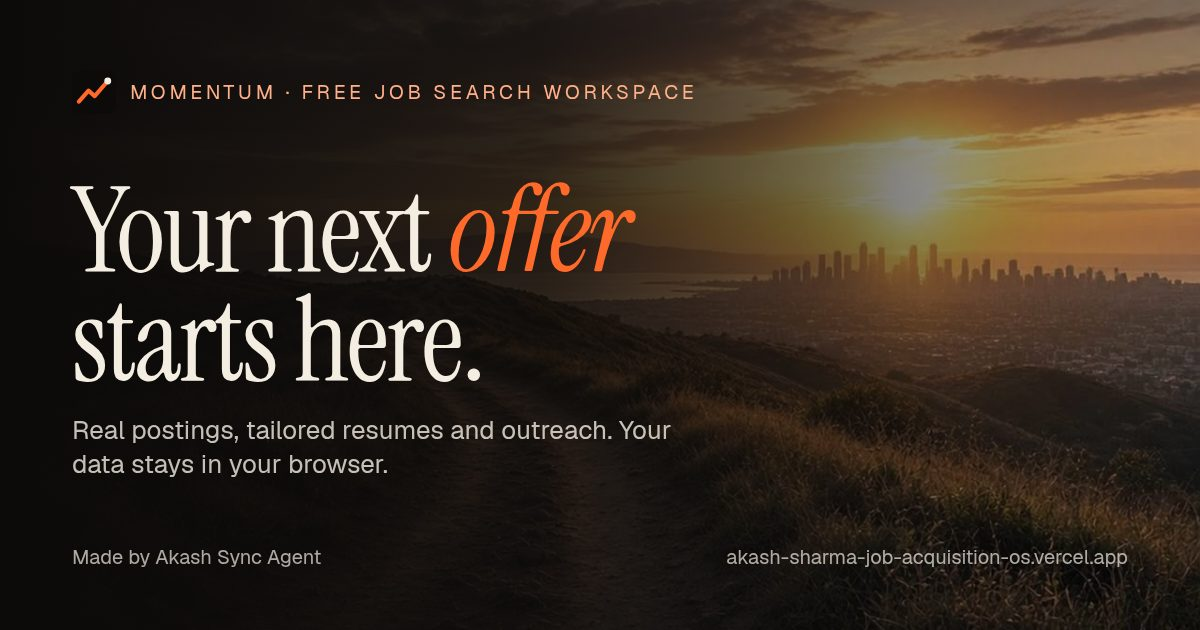
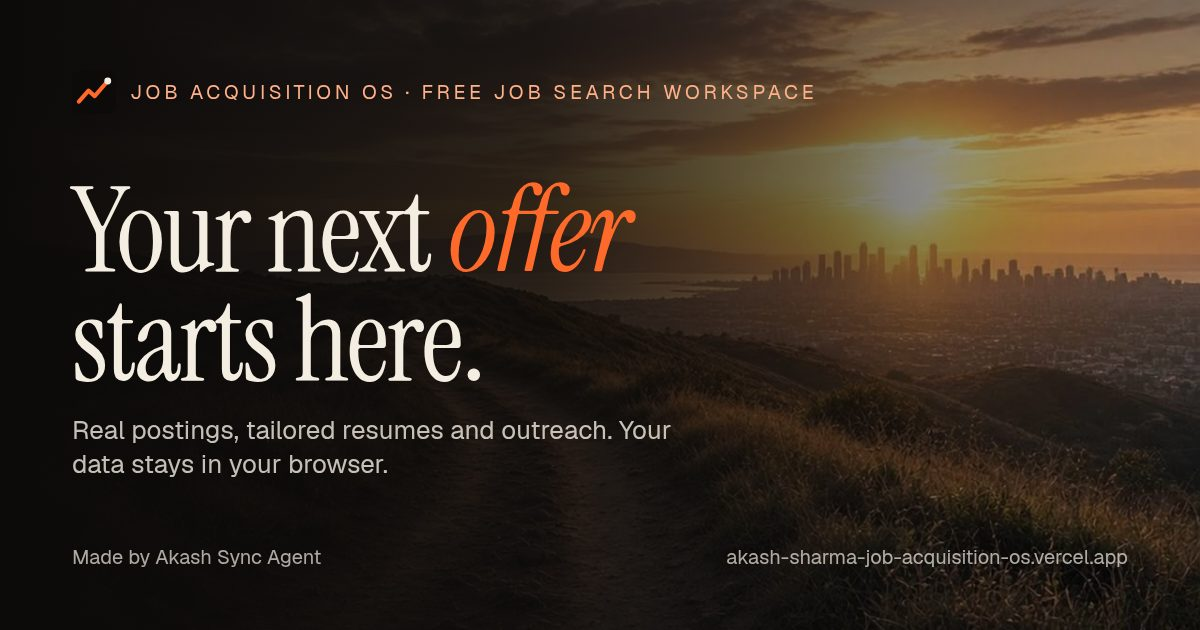
Truth pass: product name Job Acquisition OS (Momentum = design concept), landing copy matches tested features (real jobs step, no 'Apply/Negotiate', no 'ATS'), new OG card

Changed region(s): [[0.0925, 0.1206, 0.6783, 0.181]]

diff --git a/src/pages/Landing.tsx b/src/pages/Landing.tsx
@@ -15,7 +15,7 @@ function ShareButton({ className }: { className: string }) {
   const url = `${SITE_URL}/?ref=share`;
   const share = async () => {
     track('share');
-    const data = { title: 'Momentum: a free job search workspace', text: 'Free job search workspace: real postings, tailored resumes, your data stays in your browser.', url };
+    const data = { title: 'Job Acquisition OS: a free job search workspace', text: 'Free job search workspace: real postings, tailored resumes, your data stays in your browser.', url };
     try { if (navigator.share) { await navigator.share(data); return; } } catch { return; }
     try { await navigator.clipboard.writeText(url); setCopied(true); setTimeout(() => setCopied(false), 2500); } catch { prompt('Copy this link', url); }
   };
@@ -23,11 +23,12 @@ function ShareButton({ className }: { className: string }) {
 }
 
 const STEPS = [
-  ['01', 'Bring your resume', 'Upload it once. It is saved in your browser and powers every tool.'],
-  ['02', 'Score the role', 'A candid fit score, strengths, gaps and the keywords you are missing.'],
-  ['03', 'Tailor and reach out', 'Resume, cover letter and outreach written from your resume only. AI can slip, so read before you send.'],
-  ['04', 'Face the screen', 'A simulated recruiter read, plus interview prep for every round.'],
-  ['05', 'Land the offer', 'Track pay, compare offers, and see the whole path on one horizon.'],
+  ['01', 'Bring your resume', 'Upload a PDF, DOCX or TXT, or fill a short Hindi/English form if you have none. Saved in your browser.'],
+  ['02', 'Find real jobs', 'Real postings from FreeHire with the original link, plus government notices with an official link and a future last date. Verify before you apply.'],
+  ['03', 'Score the role', 'A fit score with strengths, gaps and missing keywords (AI with your free Gemini key, otherwise a labelled keyword match).'],
+  ['04', 'Tailor and reach out', 'Resume, cover letter and outreach drafts from your resume only, with a fact check. You read and send them yourself.'],
+  ['05', 'Face the screen', 'A simulated recruiter read, plus interview prep for every round.'],
+  ['06', 'Land the offer', 'Follow-up reminders for your calendar, pay you log on each job, and your weekly pace.'],
 ];
 
 export default function Landing({ dark, toggleTheme, enter }: { dark: boolean; toggleTheme: () => void; enter: () => void }) {
@@ -73,7 +74,7 @@ export default function Landing({ dark, toggleTheme, enter }: { dark: boolean; t
   const nav = (
     <header className="fixed inset-x-0 top-4 z-50 flex justify-center px-4">
       <nav className={`glass flex w-full max-w-2xl items-center justify-between rounded-full px-3 py-2 pl-5 transition-shadow ${scrolled ? 'shadow-[0_10px_40px_-10px_rgba(0,0,0,0.5)]' : ''}`} aria-label="Primary">
-        <span className="display text-xl">Momentum</span>
+        <span className="display text-xl">Job Acquisition OS</span>
         <div className="hidden items-center gap-6 text-sm sm:flex">
           <a href="#path" className="hover:text-primary">The path</a>
           <a href="#tools" className="hover:text-primary">Toolkit</a>
@@ -99,7 +100,7 @@ export default function Landing({ dark, toggleTheme, enter }: { dark: boolean; t
         </div>
         <div className="absolute inset-0 bg-gradient-to-t from-[#0d0b0a] via-[#0d0b0a]/30 to-[#0d0b0a]/50" />
         <div className="hero-copy relative z-10 flex h-full flex-col justify-end px-5 pb-14 sm:px-10 sm:pb-20">
-          <p className="hero-fade label mb-5 text-[#ffb089]">Your job search, with momentum</p>
+          <p className="hero-fade label mb-5 text-[#ffb089]">Job Acquisition OS · free, by Akash Sync Agent</p>
           <h1 className="display max-w-[16ch] text-[clamp(3.6rem,11.5vw,11rem)] leading-[0.9]">
             <span className="block overflow-hidden"><span className="hero-line block">Your next</span></span>
             <span className="block overflow-hidden"><span className="hero-line block italic text-[#ff6a2b]">offer</span></span>
@@ -117,7 +118,7 @@ export default function Landing({ dark, toggleTheme, enter }: { dark: boolean; t
       {/* MARQUEE */}
       <section aria-hidden="true" className="overflow-hidden border-y border-border py-5">
         <div className="marquee-track flex w-max gap-10 whitespace-nowrap">
-          {Array.from({ length: 2 }).flatMap((_, k) => ['Score', 'Tailor', 'Apply', 'Follow up', 'Interview', 'Negotiate', 'Offer'].map((w) => (
+          {Array.from({ length: 2 }).flatMap((_, k) => ['Find', 'Score', 'Tailor', 'Follow up', 'Interview', 'Prepare', 'Offer'].map((w) => (
             <span key={w + k} className="display flex items-center gap-10 text-5xl sm:text-7xl">{w}<span className="text-primary">✦</span></span>
           )))}
         </div>
@@ -166,11 +167,11 @@ export default function Landing({ dark, toggleTheme, enter }: { dark: boolean; t
             </div>
           </div>
           <Tile cls="md:col-span-3" icon={<Gauge />} title="Candid fit score" body="0 to 100 against your own resume, with strengths, gaps and missing keywords. (Example score shown; real scores need your Gemini key.)" big="87" />
-          <Tile cls="md:col-span-2" icon={<ScanSearch />} title="Recruiter's 6-second read" body="Would you be shortlisted? Plus ATS keyword match." />
-          <Tile cls="md:col-span-1" icon={<TrendingUp />} title="Pay charts" body="Ranges vs your target." />
+          <Tile cls="md:col-span-2" icon={<ScanSearch />} title="Recruiter's 6-second read" body="A simulated shortlist read, plus a keyword match against the job description." />
+          <Tile cls="md:col-span-1" icon={<TrendingUp />} title="Pay charts" body="Pay you log on jobs, against your minimum." />
           <Tile cls="md:col-span-2" icon={<Mail />} title="Outreach & templates" body="Open in Gmail or download .eml. You always press send." />
           <Tile cls="md:col-span-2" icon={<Route />} title="Interview prep" body="Likely questions, answer outlines and what to ask." />
-          <Tile cls="md:col-span-2" icon={<Download />} title="Weekly report" body="Your momentum, as a PDF." />
+          <Tile cls="md:col-span-2" icon={<Download />} title="Weekly report" body="Your week of applications, as a PDF." />
         </div>
       </section>
 
@@ -186,7 +187,7 @@ export default function Landing({ dark, toggleTheme, enter }: { dark: boolean; t
       </section>
       <footer className="grid gap-4 px-5 py-8 text-sm text-muted-foreground sm:px-10">
         <div className="flex flex-wrap items-center justify-between gap-3">
-          <span className="display text-xl text-foreground">Momentum</span>
+          <span className="display text-xl text-foreground">Job Acquisition OS</span>
           <nav aria-label="Footer" className="flex flex-wrap items-center gap-5">
             <a href="/feedback" className="label hover:text-primary">Share feedback</a>
             <ShareButton className="label cursor-pointer hover:text-primary" />

diff --git a/index.html b/index.html
@@ -3,7 +3,7 @@
   <head>
     <meta charset="UTF-8" />
     <meta name="viewport" content="width=device-width, initial-scale=1.0" />
-    <title>Momentum: free job search workspace, by Akash Sync Agent</title>
+    <title>Job Acquisition OS: free job search workspace, by Akash Sync Agent</title>
     <meta name="description" content="Find real job postings, score them against your resume, tailor your resume, cover letters and outreach with AI. Free. Your data stays in your browser." />
     <meta name="author" content="Akash Sync Agent (Adv. Akash Sharma)" />
     <meta name="theme-color" content="#0d0b0a" />
@@ -11,25 +11,25 @@
     <link rel="icon" href="/favicon.svg" type="image/svg+xml" />
     <link rel="apple-touch-icon" href="/apple-touch-icon.png" />
     <meta property="og:type" content="website" />
-    <meta property="og:site_name" content="Momentum" />
-    <meta property="og:title" content="Momentum: your next offer starts here" />
+    <meta property="og:site_name" content="Job Acquisition OS" />
+    <meta property="og:title" content="Job Acquisition OS: your next offer starts here" />
     <meta property="og:description" content="Free job search workspace: real postings, tailored resumes and outreach. Your data stays in your browser." />
     <meta property="og:url" content="https://akash-sharma-job-acquisition-os.vercel.app/" />
     <meta property="og:image" content="https://akash-sharma-job-acquisition-os.vercel.app/og.jpg" />
     <meta property="og:image:width" content="1200" />
     <meta property="og:image:height" content="630" />
-    <meta property="og:image:alt" content="Momentum: Your next offer starts here. Made by Akash Sync Agent." />
+    <meta property="og:image:alt" content="Job Acquisition OS: Your next offer starts here. Made by Akash Sync Agent." />
     <meta name="twitter:card" content="summary_large_image" />
-    <meta name="twitter:title" content="Momentum: your next offer starts here" />
+    <meta name="twitter:title" content="Job Acquisition OS: your next offer starts here" />
     <meta name="twitter:description" content="Free job search workspace. Your data stays in your browser." />
     <meta name="twitter:image" content="https://akash-sharma-job-acquisition-os.vercel.app/og.jpg" />
     <!-- Search engine verification: paste the codes Akash gets from Google Search Console / Bing Webmaster Tools, then uncomment. See docs/SEO_SETUP.md -->
     <!-- <meta name="google-site-verification" content="PASTE_GOOGLE_CODE_HERE" /> -->
     <!-- <meta name="msvalidate.01" content="PASTE_BING_CODE_HERE" /> -->
-    <script type="application/ld+json">{"@context":"https://schema.org","@graph":[{"@type":"Organization","@id":"https://akash-sharma-job-acquisition-os.vercel.app/#org","name":"Akash Sync Agent","url":"https://akash-sharma-job-acquisition-os.vercel.app/","logo":"https://akash-sharma-job-acquisition-os.vercel.app/apple-touch-icon.png","founder":{"@type":"Person","name":"Adv. Akash Sharma"},"sameAs":["https://github.com/advakash2356-sys"]},{"@type":"WebApplication","name":"Momentum","url":"https://akash-sharma-job-acquisition-os.vercel.app/","applicationCategory":"BusinessApplication","operatingSystem":"Any (runs in a web browser)","browserRequirements":"Requires JavaScript","inLanguage":["en","hi"],"isAccessibleForFree":true,"offers":{"@type":"Offer","price":"0","priceCurrency":"INR"},"description":"Free job search workspace: real job postings from FreeHire, resume scoring and tailoring with your own free Google Gemini key, outreach drafts and interview prep. Your data stays in your browser.","image":"https://akash-sharma-job-acquisition-os.vercel.app/og.jpg","author":{"@id":"https://akash-sharma-job-acquisition-os.vercel.app/#org"},"publisher":{"@id":"https://akash-sharma-job-acquisition-os.vercel.app/#org"}}]}</script>
+    <script type="application/ld+json">{"@context":"https://schema.org","@graph":[{"@type":"Organization","@id":"https://akash-sharma-job-acquisition-os.vercel.app/#org","name":"Akash Sync Agent","url":"https://akash-sharma-job-acquisition-os.vercel.app/","logo":"https://akash-sharma-job-acquisition-os.vercel.app/apple-touch-icon.png","founder":{"@type":"Person","name":"Adv. Akash Sharma"},"sameAs":["https://github.com/advakash2356-sys"]},{"@type":"WebApplication","name":"Job Acquisition OS","url":"https://akash-sharma-job-acquisition-os.vercel.app/","applicationCategory":"BusinessApplication","operatingSystem":"Any (runs in a web browser)","browserRequirements":"Requires JavaScript","inLanguage":["en","hi"],"isAccessibleForFree":true,"offers":{"@type":"Offer","price":"0","priceCurrency":"INR"},"description":"Free job search workspace: real job postings from FreeHire, resume scoring and tailoring with your own free Google Gemini key, outreach drafts and interview prep. Your data stays in your browser.","image":"https://akash-sharma-job-acquisition-os.vercel.app/og.jpg","author":{"@id":"https://akash-sharma-job-acquisition-os.vercel.app/#org"},"publisher":{"@id":"https://akash-sharma-job-acquisition-os.vercel.app/#org"}}]}</script>
   </head>
   <body>
-    <noscript>Momentum needs JavaScript to run. It is a free job search workspace made by Akash Sync Agent.</noscript>
+    <noscript>Job Acquisition OS needs JavaScript to run. It is a free job search workspace made by Akash Sync Agent.</noscript>
     <div id="root"></div>
     <script type="module" src="/src/main.tsx"></script>
   </body>

diff --git a/src/lib/brand.ts b/src/lib/brand.ts
@@ -1,4 +1,4 @@
-export const SITE_NAME = 'Momentum';
+export const SITE_NAME = 'Job Acquisition OS';
 export const SITE_URL = 'https://akash-sharma-job-acquisition-os.vercel.app';
 export const CREDIT = 'Made by Akash Sync Agent';
 export const COPYRIGHT = '© 2026 Akash Sync Agent (Adv. Akash Sharma)';
@@ -21,10 +21,10 @@ export const CAMPAIGN = 'launch-oct26';
 export const channelLink = (c: string) => `${SITE_URL}/?ref=${c}&utm_campaign=${CAMPAIGN}`;
 /** Title and description per page (set at runtime; crawlers that run JS see them). */
 export const PAGE_META: Record<string, [string, string]> = {
-  landing: ['Momentum: free job search workspace, by Akash Sync Agent', 'Find real job postings, score them against your resume, and tailor your resume, cover letters and outreach with AI. Free. Your data stays in your browser.'],
-  about: ['About Momentum · Made by Akash Sync Agent', 'Who made Momentum, the licence in plain words, and the open-source parts it is built with.'],
-  terms: ['Terms of use · Momentum', 'Plain-language terms for Momentum: provided as is, Google Gemini API terms apply, 18+, verify every job and AI draft.'],
-  feedback: ['Share feedback · Momentum', 'Tell Akash Sync Agent what worked, what did not, and what you wish Momentum did. Post on GitHub or send a private email.'],
-  privacy: ['Privacy & security · Momentum', 'What Momentum stores (only in your browser), what is sent to Google Gemini and FreeHire, and the anonymous usage counts.'],
-  app: ['Your workspace · Momentum', 'Your job search workspace: jobs, resume, tailoring, outreach and interviews, saved in your browser.'],
+  landing: ['Job Acquisition OS: free job search workspace, by Akash Sync Agent', 'Find real job postings, score them against your resume, and tailor your resume, cover letters and outreach with AI. Free. Your data stays in your browser.'],
+  about: ['About Job Acquisition OS · Made by Akash Sync Agent', 'Who made Job Acquisition OS, the licence in plain words, and the open-source parts it is built with.'],
+  terms: ['Terms of use · Job Acquisition OS', 'Plain-language terms for Job Acquisition OS: provided as is, Google Gemini API terms apply, 18+, verify every job and AI draft.'],
+  feedback: ['Share feedback · Job Acquisition OS', 'Tell Akash Sync Agent what worked, what did not, and what you wish Job Acquisition OS did. Post on GitHub or send a private email.'],
+  privacy: ['Privacy & security · Job Acquisition OS', 'What Job Acquisition OS stores (only in your browser), what is sent to Google Gemini and FreeHire, and the anonymous usage counts.'],
+  app: ['Your workspace · Job Acquisition OS', 'Your job search workspace: jobs, resume, tailoring, outreach and interviews, saved in your browser.'],
 };

diff --git a/src/pages/About.tsx b/src/pages/About.tsx
@@ -4,12 +4,12 @@ import { COPYRIGHT, CREDIT, REPO } from '../lib/brand';
 export default function About() {
   return (
     <>
-      <PageHeader eyebrow="Credits" title="About Momentum" subtitle={`${CREDIT}. A free, browser-only job search workspace.`} />
+      <PageHeader eyebrow="Credits" title="About Job Acquisition OS" subtitle={`${CREDIT}. A free, browser-only job search workspace.`} />
       <div className="grid gap-5">
         <Card><h2 className="mb-2 text-xl font-medium">Who made it</h2>
-          <p className="text-sm">Momentum is designed and built by <b>Akash Sync Agent</b> (Adv. Akash Sharma). {COPYRIGHT}.</p></Card>
+          <p className="text-sm">Job Acquisition OS is designed and built by <b>Akash Sync Agent</b> (Adv. Akash Sharma). {COPYRIGHT}.</p></Card>
         <Card><h2 className="mb-2 text-xl font-medium">Licence, in plain words</h2>
-          <p className="text-sm">The source code is open under the MIT licence (<a className="underline text-primary" href={`https://github.com/${REPO}`} target="_blank" rel="noreferrer">GitHub</a>). MIT lets anyone use, copy, change and even sell the code, as long as they keep the copyright and licence notice. It does not give anyone the right to use the name "Akash Sync Agent", the Momentum branding or the logo: those are not licensed for reuse.</p></Card>
+          <p className="text-sm">The source code is open under the MIT licence (<a className="underline text-primary" href={`https://github.com/${REPO}`} target="_blank" rel="noreferrer">GitHub</a>). MIT lets anyone use, copy, change and even sell the code, as long as they keep the copyright and licence notice. It does not give anyone the right to use the name "Akash Sync Agent", the Job Acquisition OS branding (design concept "Momentum") or the logo: those are not licensed for reuse.</p></Card>
         <Card><h2 className="mb-2 text-xl font-medium">Built with</h2>
           <ul className="list-disc space-y-1 pl-5 text-sm">
             <li>Jobs: <a className="underline" href="https://github.com/strelov1/freehire" target="_blank" rel="noreferrer">FreeHire</a> (MIT) open job search API.</li>

diff --git a/src/pages/Terms.tsx b/src/pages/Terms.tsx
@@ -9,7 +9,7 @@ export default function Terms() {
       <PageHeader eyebrow="Plain language" title="Terms of use" subtitle="Short and honest. Last updated 19 October 2026." />
       <div className="grid gap-5">
         <S t="What this is">
-          <p>Momentum is a free tool to organise your job search. It is provided as is, without any warranty. It does not apply for jobs or send emails for you: you review and send everything yourself.</p>
+          <p>Job Acquisition OS is a free tool to organise your job search. It is provided as is, without any warranty. It does not apply for jobs or send emails for you: you review and send everything yourself.</p>
         </S>
         <S t="Who can use the AI features">
           <p>The AI features use Google's Gemini API with your own key, so Google's <a className="underline text-primary" href="https://ai.google.dev/gemini-api/terms" target="_blank" rel="noreferrer">Gemini API Additional Terms</a> apply to you. Google requires you to be <b>18 or older</b> to use the API.</p>
@@ -26,7 +26,7 @@ export default function Terms() {
           <p>Do not use the app to spam employers, scrape sites, or break any law or platform terms. The job search has a rate limit to keep it fair.</p>
         </S>
         <S t="Name and logo">
-          <p>The code is MIT licensed. The name "Akash Sync Agent", the Momentum branding and the logo are not licensed for reuse. {COPYRIGHT}.</p>
+          <p>The code is MIT licensed. The name "Akash Sync Agent", the Job Acquisition OS branding (design concept "Momentum") and the logo are not licensed for reuse. {COPYRIGHT}.</p>
         </S>
       </div>
     </>

diff --git a/src/App.tsx b/src/App.tsx
@@ -102,7 +102,7 @@ function Workspace({ uid, user }: { uid: string; user: AuthUser | null }) {
   const sidebar = (
     <nav aria-label="Main" className="flex h-full flex-col gap-6 overflow-y-auto p-4">
       <div className="px-2 pt-1">
-        <button onClick={leave} className="display text-3xl leading-none cursor-pointer" aria-label="Momentum, back to home">Momentum</button>
+        <button onClick={leave} className="display text-3xl leading-none cursor-pointer" aria-label="Job Acquisition OS, back to home">Job Acquisition OS</button>
         <div className="label mt-1 text-muted-foreground">{profile.name || 'Your job search'}</div>
       </div>
       {NAV.map((g) => (
@@ -141,7 +141,7 @@ function Workspace({ uid, user }: { uid: string; user: AuthUser | null }) {
         <aside className="sticky top-0 hidden h-screen p-4 lg:block"><div className="glass h-full overflow-hidden rounded-[28px]">{sidebar}</div></aside>
 
         <header className="glass sticky top-3 z-30 mx-3 mt-3 flex items-center justify-between rounded-full py-2 pl-5 pr-2 lg:hidden">
-          <button onClick={leave} className="display text-2xl cursor-pointer">Momentum</button>
+          <button onClick={leave} className="display text-2xl cursor-pointer">Job Acquisition OS</button>
           <button onClick={() => setMenu(true)} aria-label="Open menu" className="rounded-lg p-2 hover:bg-muted cursor-pointer"><Menu size={20} /></button>
         </header>
         {menu && (

diff --git a/public/404.html b/public/404.html
@@ -1,3 +1,3 @@
-<!doctype html><html lang="en"><head><meta charset="utf-8"><meta name="viewport" content="width=device-width,initial-scale=1"><title>Page not found · Momentum</title><meta name="robots" content="noindex"><link rel="icon" href="/favicon.svg" type="image/svg+xml">
+<!doctype html><html lang="en"><head><meta charset="utf-8"><meta name="viewport" content="width=device-width,initial-scale=1"><title>Page not found · Job Acquisition OS</title><meta name="robots" content="noindex"><link rel="icon" href="/favicon.svg" type="image/svg+xml">
 <style>body{margin:0;min-height:100vh;display:grid;place-items:center;background:#0d0b0a;color:#f4ede2;font:16px/1.5 system-ui,sans-serif;text-align:center}h1{font:400 64px/1 Georgia,serif;margin:.2em 0}a{display:inline-block;margin-top:24px;background:#ff6a2b;color:#1a0c05;padding:12px 24px;border-radius:999px;text-decoration:none;font-weight:600}p{color:rgba(244,237,226,.7)}</style></head>
-<body><main><p>404</p><h1>Off the path.</h1><p>That page does not exist.</p><a href="/">Back to Momentum</a><p style="font-size:12px;margin-top:40px">Made by Akash Sync Agent · © 2026 Akash Sync Agent (Adv. Akash Sharma)</p></main></body></html>
+<body><main><p>404</p><h1>Off the path.</h1><p>That page does not exist.</p><a href="/">Back to Job Acquisition OS</a><p style="font-size:12px;margin-top:40px">Made by Akash Sync Agent · © 2026 Akash Sync Agent (Adv. Akash Sharma)</p></main></body></html>

diff --git a/src/pages/Privacy.tsx b/src/pages/Privacy.tsx
@@ -43,7 +43,7 @@ export default function Privacy() {
         </Item>
         <Item t="Delete everything">
           <p>"Clear all data" on My resume removes your resume and jobs for the current account. The button below removes everything this app has saved in this browser: all accounts' resumes and jobs, API keys and preferences. Exported files you downloaded stay where you saved them. Signing out (Settings) ends the sign-in session only and keeps your saved data on this device.</p>
-          <div><Button variant="danger" onClick={() => { if (confirm('Delete all Job OS data from this browser, including API keys? This cannot be undone.')) { wipeEverything(); setDone(true); setTimeout(() => location.reload(), 900); } }}><Trash2 size={16} /> Delete everything from this browser</Button></div>
+          <div><Button variant="danger" onClick={() => { if (confirm('Delete all Job Acquisition OS data from this browser, including API keys? This cannot be undone.')) { wipeEverything(); setDone(true); setTimeout(() => location.reload(), 900); } }}><Trash2 size={16} /> Delete everything from this browser</Button></div>
           {done && <p role="status" className="text-primary">Deleted. Reloading…</p>}
         </Item>
       </div>

diff --git a/src/components/JobFollowUp.tsx b/src/components/JobFollowUp.tsx
@@ -10,7 +10,7 @@ export default function JobFollowUp({ job, patch, go }: { job: Job; patch: (p: P
   const [text, setText] = useState('');
   const [kind, setKind] = useState<ReplyKind | null>(null);
   const steps = cadence(job);
-  const remind = (n: number, date: string) => download(ics({ uid: `${job.id}-fu${n}`, title: `Follow up #${n}: ${job.title}, ${job.company}`, start: date < todayStr() ? todayStr() : date, description: `Send follow-up #${n} for ${job.title} at ${job.company}. Draft it in Momentum's Outreach studio.`, url: job.url || undefined }), `follow-up-${n}-${slug(job.company)}.ics`, 'text/calendar');
+  const remind = (n: number, date: string) => download(ics({ uid: `${job.id}-fu${n}`, title: `Follow up #${n}: ${job.title}, ${job.company}`, start: date < todayStr() ? todayStr() : date, description: `Send follow-up #${n} for ${job.title} at ${job.company}. Draft it in Job Acquisition OS (Outreach studio).`, url: job.url || undefined }), `follow-up-${n}-${slug(job.company)}.ics`, 'text/calendar');
   const advice = kind ? REPLY_ADVICE[kind] : null;
   return (
     <section className="mb-5 grid gap-4 rounded-xl border border-border p-4">

diff --git a/src/lib/merged.ts b/src/lib/merged.ts
@@ -44,7 +44,7 @@ export function ics(ev: { uid: string; title: string; start: string; minutes?: n
   const pad = (n: number) => String(n).padStart(2, '0');
   const fmt = (d: Date) => `${d.getUTCFullYear()}${pad(d.getUTCMonth() + 1)}${pad(d.getUTCDate())}T${pad(d.getUTCHours())}${pad(d.getUTCMinutes())}00Z`;
   const allDay = /^\d{4}-\d{2}-\d{2}$/.test(ev.start);
-  const lines = ['BEGIN:VCALENDAR', 'VERSION:2.0', 'PRODID:-//Momentum Job OS//EN', 'BEGIN:VEVENT', `UID:${ev.uid}@momentum`, `DTSTAMP:${fmt(new Date())}`];
+  const lines = ['BEGIN:VCALENDAR', 'VERSION:2.0', 'PRODID:-//Akash Sync Agent//Job Acquisition OS//EN', 'BEGIN:VEVENT', `UID:${ev.uid}@job-acquisition-os`, `DTSTAMP:${fmt(new Date())}`];
   if (allDay) { const d = ev.start.replace(/-/g, ''); const n = new Date(ev.start + 'T00:00'); n.setDate(n.getDate() + 1); lines.push(`DTSTART;VALUE=DATE:${d}`, `DTEND;VALUE=DATE:${n.getFullYear()}${pad(n.getMonth() + 1)}${pad(n.getDate())}`); }
   else { const s = new Date(ev.start); lines.push(`DTSTART:${fmt(s)}`, `DTEND:${fmt(new Date(s.getTime() + (ev.minutes || 60) * 60000))}`); }
   lines.push(`SUMMARY:${esc(ev.title)}`);

diff --git a/src/pages/Feedback.tsx b/src/pages/Feedback.tsx
@@ -12,7 +12,7 @@ export default function Feedback() {
   const [text, setText] = useState('');
   const ok = text.trim().length >= 5;
   const title = `[Feedback] ${kind}: ${text.trim().split('\n')[0].slice(0, 60)}`;
-  const body = `**Type:** ${kind}\n\n${text.trim()}\n\n---\nSent from the Momentum feedback page (${new Date().toISOString().slice(0, 10)}).`;
+  const body = `**Type:** ${kind}\n\n${text.trim()}\n\n---\nSent from the Job Acquisition OS feedback page (${new Date().toISOString().slice(0, 10)}).`;
   const issueUrl = `https://github.com/${REPO}/issues/new?${new URLSearchParams({ template: 'feedback.yml', title, labels: 'feedback', kind, details: text.trim() }).toString()}`;
   const mailUrl = `mailto:${OWNER_EMAIL}?${new URLSearchParams({ subject: title, body: body.replace(/\*\*/g, '') }).toString().replace(/\+/g, '%20')}`;
   return (

diff --git a/src/pages/Resume.tsx b/src/pages/Resume.tsx
@@ -29,7 +29,7 @@ export default function ResumePage() {
       setProfile({ ...emptyProfile, ...d.profile });
       if (Array.isArray(d.jobs)) setJobs(d.jobs);
       setMsg('Backup imported.');
-    } catch { setMsg('That file is not a valid Job OS backup.'); }
+    } catch { setMsg('That file is not a valid Job Acquisition OS backup.'); }
   };
 
   return (
